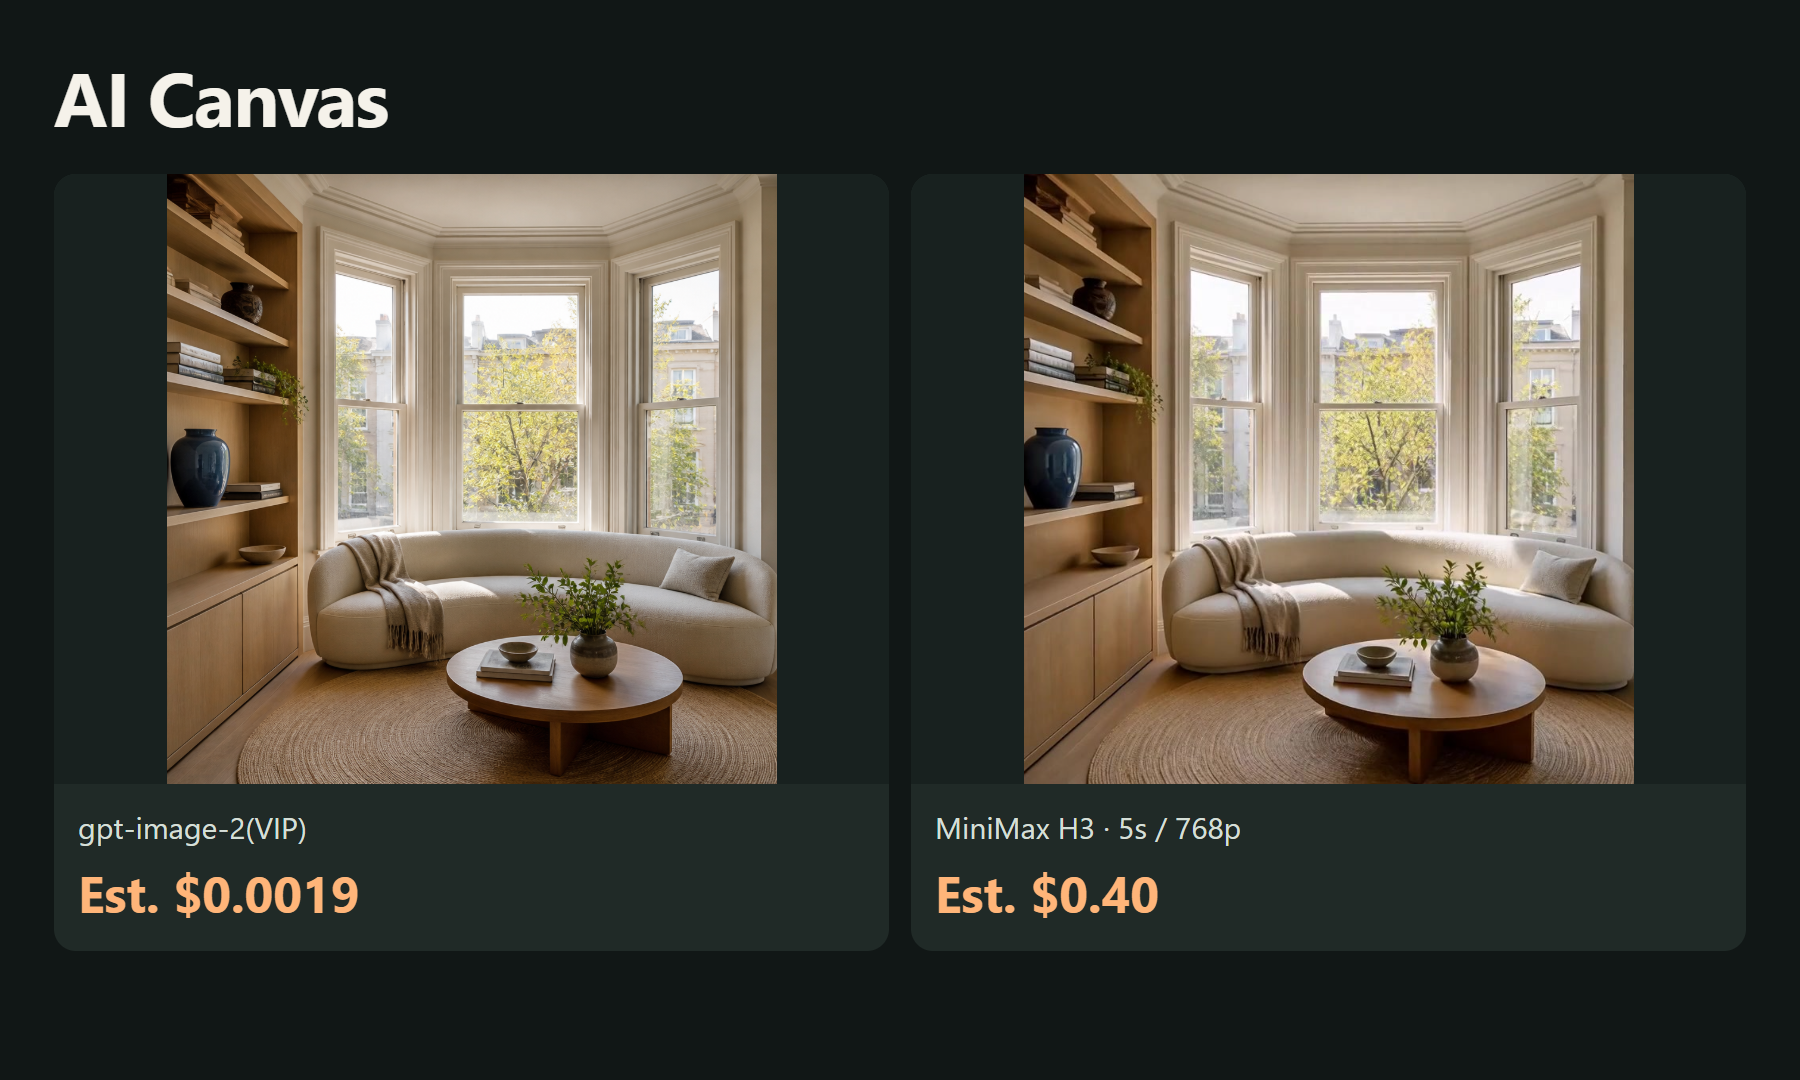
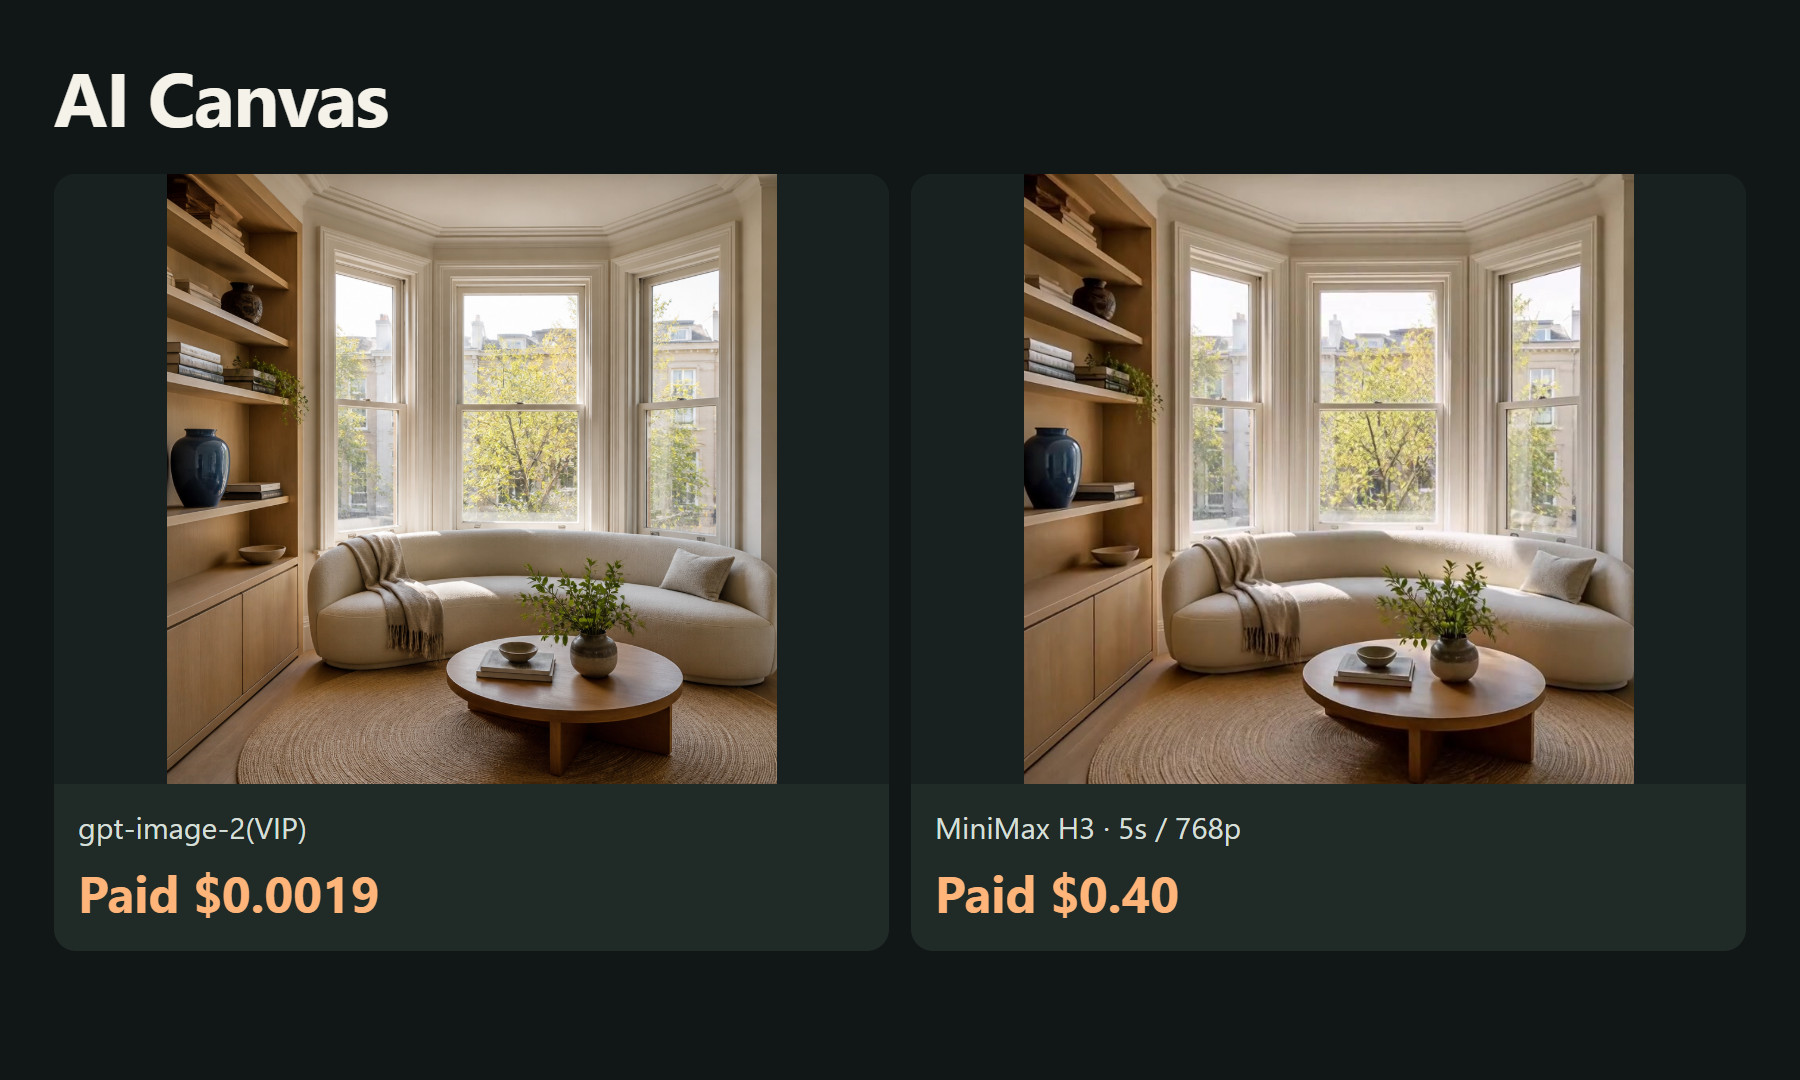
Publish original bilingual ToAPIs media examples, model pricing and real outputs

Changed region(s): [[0.0311, 0.7944, 0.2178, 0.8556], [0.5289, 0.7944, 0.6533, 0.8556]]

diff --git a/screenshots/cn/01-image-cases.html b/screenshots/cn/01-image-cases.html
@@ -1,1 +1,1 @@
-<!doctype html><html lang="zh-CN"><meta charset="utf-8"><title>AI Canvas</title><style>*{box-sizing:border-box}html,body{margin:0;width:1800px;height:1080px;overflow:hidden}body{background:#111716;color:#f5f2ea;font-family:"Segoe UI","Microsoft YaHei",sans-serif}.page{padding:54px 54px 40px}h1{font-size:76px;line-height:1.1;margin:0 0 36px;font-weight:650;letter-spacing:-1.5px}.grid{display:grid;gap:22px}.case{background:#202a27;border-radius:22px;overflow:hidden}.case img{display:block;width:100%;height:590px;object-fit:contain;background:#18211f}.caption{padding:24px 24px 28px}.model{font-size:25px;line-height:1.3;color:#d5dfd7;white-space:nowrap}.price{font-size:51px;line-height:1.2;color:#ffb579;font-weight:650;margin-top:16px}.video .case img{height:610px}.video .model{font-size:30px}.video .price{font-size:50px}</style><main class="page "><h1>AI Canvas</h1><div class="grid" style="grid-template-columns:repeat(3,1fr)"><section class="case"><img src="../../examples/gpt-image-2-vip.png"><div class="caption"><div class="model">gpt-image-2(VIP)</div><div class="price">预计 $0.0019</div></div></section><section class="case"><img src="../../examples/gpt-image-2-5-flare.png"><div class="caption"><div class="model">gpt-image-2.5-flare</div><div class="price">预计 $0.0225</div></div></section><section class="case"><img src="../../examples/gemini-nano-banana-2-1.png"><div class="caption"><div class="model">Nano Banana 2.1</div><div class="price">预计 $0.015</div></div></section></div></main></html>
+<!doctype html><html lang="zh-CN"><meta charset="utf-8"><title>AI Canvas</title><style>*{box-sizing:border-box}html,body{margin:0;width:1800px;height:1080px;overflow:hidden}body{background:#111716;color:#f5f2ea;font-family:"Segoe UI","Microsoft YaHei",sans-serif}.page{padding:54px 54px 40px}h1{font-size:76px;line-height:1.1;margin:0 0 36px;font-weight:650;letter-spacing:-1.5px}.grid{display:grid;gap:22px}.case{background:#202a27;border-radius:22px;overflow:hidden}.case img{display:block;width:100%;height:590px;object-fit:contain;background:#18211f}.caption{padding:24px 24px 28px}.model{font-size:25px;line-height:1.3;color:#d5dfd7;white-space:nowrap}.price{font-size:51px;line-height:1.2;color:#ffb579;font-weight:650;margin-top:16px}.video .case img{height:610px}.video .model{font-size:30px}.video .price{font-size:50px}</style><main class="page "><h1>AI Canvas</h1><div class="grid" style="grid-template-columns:repeat(3,1fr)"><section class="case"><img src="../../examples/gpt-image-2-vip.png"><div class="caption"><div class="model">gpt-image-2(VIP)</div><div class="price">实扣 $0.0019</div></div></section><section class="case"><img src="../../examples/gpt-image-2-5-flare.png"><div class="caption"><div class="model">gpt-image-2.5-flare</div><div class="price">实扣 $0.0225</div></div></section><section class="case"><img src="../../examples/gemini-nano-banana-2-1.png"><div class="caption"><div class="model">Nano Banana 2.1</div><div class="price">实扣 $0.015</div></div></section></div></main></html>

diff --git a/screenshots/en/01-image-cases.html b/screenshots/en/01-image-cases.html
@@ -1,1 +1,1 @@
-<!doctype html><html lang="en"><meta charset="utf-8"><title>AI Canvas</title><style>*{box-sizing:border-box}html,body{margin:0;width:1800px;height:1080px;overflow:hidden}body{background:#111716;color:#f5f2ea;font-family:"Segoe UI","Microsoft YaHei",sans-serif}.page{padding:54px 54px 40px}h1{font-size:76px;line-height:1.1;margin:0 0 36px;font-weight:650;letter-spacing:-1.5px}.grid{display:grid;gap:22px}.case{background:#202a27;border-radius:22px;overflow:hidden}.case img{display:block;width:100%;height:590px;object-fit:contain;background:#18211f}.caption{padding:24px 24px 28px}.model{font-size:25px;line-height:1.3;color:#d5dfd7;white-space:nowrap}.price{font-size:51px;line-height:1.2;color:#ffb579;font-weight:650;margin-top:16px}.video .case img{height:610px}.video .model{font-size:30px}.video .price{font-size:50px}</style><main class="page "><h1>AI Canvas</h1><div class="grid" style="grid-template-columns:repeat(3,1fr)"><section class="case"><img src="../../examples/gpt-image-2-vip.png"><div class="caption"><div class="model">gpt-image-2(VIP)</div><div class="price">Est. $0.0019</div></div></section><section class="case"><img src="../../examples/gpt-image-2-5-flare.png"><div class="caption"><div class="model">gpt-image-2.5-flare</div><div class="price">Est. $0.0225</div></div></section><section class="case"><img src="../../examples/gemini-nano-banana-2-1.png"><div class="caption"><div class="model">Nano Banana 2.1</div><div class="price">Est. $0.015</div></div></section></div></main></html>
+<!doctype html><html lang="en"><meta charset="utf-8"><title>AI Canvas</title><style>*{box-sizing:border-box}html,body{margin:0;width:1800px;height:1080px;overflow:hidden}body{background:#111716;color:#f5f2ea;font-family:"Segoe UI","Microsoft YaHei",sans-serif}.page{padding:54px 54px 40px}h1{font-size:76px;line-height:1.1;margin:0 0 36px;font-weight:650;letter-spacing:-1.5px}.grid{display:grid;gap:22px}.case{background:#202a27;border-radius:22px;overflow:hidden}.case img{display:block;width:100%;height:590px;object-fit:contain;background:#18211f}.caption{padding:24px 24px 28px}.model{font-size:25px;line-height:1.3;color:#d5dfd7;white-space:nowrap}.price{font-size:51px;line-height:1.2;color:#ffb579;font-weight:650;margin-top:16px}.video .case img{height:610px}.video .model{font-size:30px}.video .price{font-size:50px}</style><main class="page "><h1>AI Canvas</h1><div class="grid" style="grid-template-columns:repeat(3,1fr)"><section class="case"><img src="../../examples/gpt-image-2-vip.png"><div class="caption"><div class="model">gpt-image-2(VIP)</div><div class="price">Paid $0.0019</div></div></section><section class="case"><img src="../../examples/gpt-image-2-5-flare.png"><div class="caption"><div class="model">gpt-image-2.5-flare</div><div class="price">Paid $0.0225</div></div></section><section class="case"><img src="../../examples/gemini-nano-banana-2-1.png"><div class="caption"><div class="model">Nano Banana 2.1</div><div class="price">Paid $0.015</div></div></section></div></main></html>

diff --git a/screenshots/cn/02-video-case.html b/screenshots/cn/02-video-case.html
@@ -1,1 +1,1 @@
-<!doctype html><html lang="zh-CN"><meta charset="utf-8"><title>AI Canvas</title><style>*{box-sizing:border-box}html,body{margin:0;width:1800px;height:1080px;overflow:hidden}body{background:#111716;color:#f5f2ea;font-family:"Segoe UI","Microsoft YaHei",sans-serif}.page{padding:54px 54px 40px}h1{font-size:76px;line-height:1.1;margin:0 0 36px;font-weight:650;letter-spacing:-1.5px}.grid{display:grid;gap:22px}.case{background:#202a27;border-radius:22px;overflow:hidden}.case img{display:block;width:100%;height:590px;object-fit:contain;background:#18211f}.caption{padding:24px 24px 28px}.model{font-size:25px;line-height:1.3;color:#d5dfd7;white-space:nowrap}.price{font-size:51px;line-height:1.2;color:#ffb579;font-weight:650;margin-top:16px}.video .case img{height:610px}.video .model{font-size:30px}.video .price{font-size:50px}</style><main class="page video"><h1>AI Canvas</h1><div class="grid" style="grid-template-columns:repeat(2,1fr)"><section class="case"><img src="../../examples/gpt-image-2-vip.png"><div class="caption"><div class="model">gpt-image-2(VIP)</div><div class="price">预计 $0.0019</div></div></section><section class="case"><img src="../../demo/video-frame.jpg"><div class="caption"><div class="model">MiniMax H3 · 5s / 768p</div><div class="price">预计 $0.40</div></div></section></div></main></html>
+<!doctype html><html lang="zh-CN"><meta charset="utf-8"><title>AI Canvas</title><style>*{box-sizing:border-box}html,body{margin:0;width:1800px;height:1080px;overflow:hidden}body{background:#111716;color:#f5f2ea;font-family:"Segoe UI","Microsoft YaHei",sans-serif}.page{padding:54px 54px 40px}h1{font-size:76px;line-height:1.1;margin:0 0 36px;font-weight:650;letter-spacing:-1.5px}.grid{display:grid;gap:22px}.case{background:#202a27;border-radius:22px;overflow:hidden}.case img{display:block;width:100%;height:590px;object-fit:contain;background:#18211f}.caption{padding:24px 24px 28px}.model{font-size:25px;line-height:1.3;color:#d5dfd7;white-space:nowrap}.price{font-size:51px;line-height:1.2;color:#ffb579;font-weight:650;margin-top:16px}.video .case img{height:610px}.video .model{font-size:30px}.video .price{font-size:50px}</style><main class="page video"><h1>AI Canvas</h1><div class="grid" style="grid-template-columns:repeat(2,1fr)"><section class="case"><img src="../../examples/gpt-image-2-vip.png"><div class="caption"><div class="model">gpt-image-2(VIP)</div><div class="price">实扣 $0.0019</div></div></section><section class="case"><img src="../../demo/video-frame.jpg"><div class="caption"><div class="model">MiniMax H3 · 5s / 768p</div><div class="price">实扣 $0.40</div></div></section></div></main></html>

diff --git a/screenshots/en/02-video-case.html b/screenshots/en/02-video-case.html
@@ -1,1 +1,1 @@
-<!doctype html><html lang="en"><meta charset="utf-8"><title>AI Canvas</title><style>*{box-sizing:border-box}html,body{margin:0;width:1800px;height:1080px;overflow:hidden}body{background:#111716;color:#f5f2ea;font-family:"Segoe UI","Microsoft YaHei",sans-serif}.page{padding:54px 54px 40px}h1{font-size:76px;line-height:1.1;margin:0 0 36px;font-weight:650;letter-spacing:-1.5px}.grid{display:grid;gap:22px}.case{background:#202a27;border-radius:22px;overflow:hidden}.case img{display:block;width:100%;height:590px;object-fit:contain;background:#18211f}.caption{padding:24px 24px 28px}.model{font-size:25px;line-height:1.3;color:#d5dfd7;white-space:nowrap}.price{font-size:51px;line-height:1.2;color:#ffb579;font-weight:650;margin-top:16px}.video .case img{height:610px}.video .model{font-size:30px}.video .price{font-size:50px}</style><main class="page video"><h1>AI Canvas</h1><div class="grid" style="grid-template-columns:repeat(2,1fr)"><section class="case"><img src="../../examples/gpt-image-2-vip.png"><div class="caption"><div class="model">gpt-image-2(VIP)</div><div class="price">Est. $0.0019</div></div></section><section class="case"><img src="../../demo/video-frame.jpg"><div class="caption"><div class="model">MiniMax H3 · 5s / 768p</div><div class="price">Est. $0.40</div></div></section></div></main></html>
+<!doctype html><html lang="en"><meta charset="utf-8"><title>AI Canvas</title><style>*{box-sizing:border-box}html,body{margin:0;width:1800px;height:1080px;overflow:hidden}body{background:#111716;color:#f5f2ea;font-family:"Segoe UI","Microsoft YaHei",sans-serif}.page{padding:54px 54px 40px}h1{font-size:76px;line-height:1.1;margin:0 0 36px;font-weight:650;letter-spacing:-1.5px}.grid{display:grid;gap:22px}.case{background:#202a27;border-radius:22px;overflow:hidden}.case img{display:block;width:100%;height:590px;object-fit:contain;background:#18211f}.caption{padding:24px 24px 28px}.model{font-size:25px;line-height:1.3;color:#d5dfd7;white-space:nowrap}.price{font-size:51px;line-height:1.2;color:#ffb579;font-weight:650;margin-top:16px}.video .case img{height:610px}.video .model{font-size:30px}.video .price{font-size:50px}</style><main class="page video"><h1>AI Canvas</h1><div class="grid" style="grid-template-columns:repeat(2,1fr)"><section class="case"><img src="../../examples/gpt-image-2-vip.png"><div class="caption"><div class="model">gpt-image-2(VIP)</div><div class="price">Paid $0.0019</div></div></section><section class="case"><img src="../../demo/video-frame.jpg"><div class="caption"><div class="model">MiniMax H3 · 5s / 768p</div><div class="price">Paid $0.40</div></div></section></div></main></html>

diff --git a/README.md b/README.md
@@ -4,7 +4,7 @@
 
 Organize and generate media on a local canvas.
 
-October 16, 2026: 3 real images and 1 real video. Catalog estimate for these completed assets: **$0.4394**; settled charges pending.
+October 16, 2026: 3 real images and 1 real video. Confirmed charge for these completed assets: **$0.4394 (87.88 credits)**, reconciled by task ID against the owner-provided dashboard export.
 
 [ToAPIs · model pricing and setup](https://go2v.toapis.com/ac16ge)
 
@@ -20,12 +20,12 @@ October 16, 2026: 3 real images and 1 real video. Catalog estimate for these com
 
 | Model | Preset | Catalog estimate / output | Settled charge |
 |---|---|---:|---|
-| gpt-image-2(VIP) | low / 1K | $0.0019 | pending |
-| gpt-image-2.5-flare | high / 1K | $0.0225 | pending |
-| Nano Banana 2.1 | 1K | $0.015 | pending |
-| MiniMax H3 | 5s / 768p / first-frame | $0.40 ($0.08/s) | pending |
+| gpt-image-2(VIP) | low / 1K | $0.0019 | $0.0019 |
+| gpt-image-2.5-flare | high / 1K | $0.0225 | $0.0225 |
+| Nano Banana 2.1 | 1K | $0.015 | $0.015 |
+| MiniMax H3 | 5s / 768p / first-frame | $0.40 ($0.08/s) | $0.4 |
 
-These are catalog estimates for the specified presets, not confirmed settled charges. Different models/presets do not imply equal quality. See evidence and examples for task records and originals.
+Catalog rates and confirmed charges match for these tested presets. Charges were reconciled against the owner-provided dashboard export at USD 0.005 per credit. Different models/presets do not imply equal quality. See evidence and examples for task records and originals.
 
 ## Run it
 

diff --git a/README_zh-CN.md b/README_zh-CN.md
@@ -4,7 +4,7 @@
 
 在本地画布里整理素材、连线生成图片和视频。
 
-2026-10-16：3张真实图片、1段真实视频；本批成功素材按价表估算 **$0.4394**，实际扣费待后台核对。
+2026-10-16：3张真实图片、1段真实视频；本批成功素材实扣 **$0.4394（87.88积分）**，已按后台导出逐任务核对。
 
 [ToAPIs · 对应模型价格与接入](https://go2v.toapis.com/ac16gc)
 
@@ -20,12 +20,12 @@
 
 | Model | Preset | Catalog estimate / output | Settled charge |
 |---|---|---:|---|
-| gpt-image-2(VIP) | low / 1K | $0.0019 | 待核对 |
-| gpt-image-2.5-flare | high / 1K | $0.0225 | 待核对 |
-| Nano Banana 2.1 | 1K | $0.015 | 待核对 |
-| MiniMax H3 | 5s / 768p / first-frame | $0.40 ($0.08/s) | 待核对 |
+| gpt-image-2(VIP) | low / 1K | $0.0019 | $0.0019 |
+| gpt-image-2.5-flare | high / 1K | $0.0225 | $0.0225 |
+| Nano Banana 2.1 | 1K | $0.015 | $0.015 |
+| MiniMax H3 | 5s / 768p / first-frame | $0.40 ($0.08/s) | $0.4 |
 
-以上是本次明确配置的费率估算，不是已结算金额；不同模型/画质不表示同等质量。每项任务、请求和原始文件见evidence与examples。
+对应配置的价表与本次实扣一致；实扣来自后台导出，1积分=$0.005。不同模型/画质不表示同等质量。逐任务记录和原始文件见evidence与examples。
 
 ## 怎么运行
 
